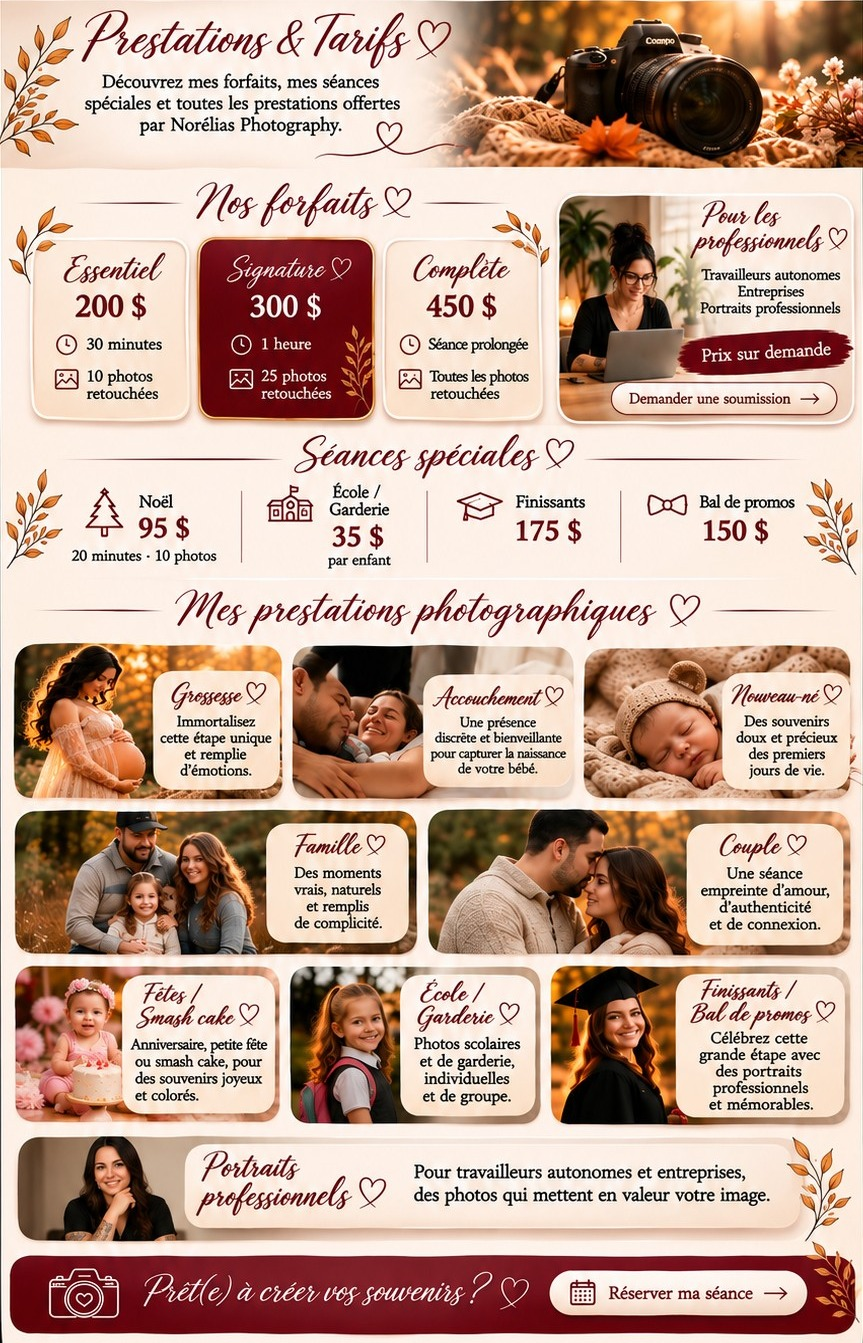
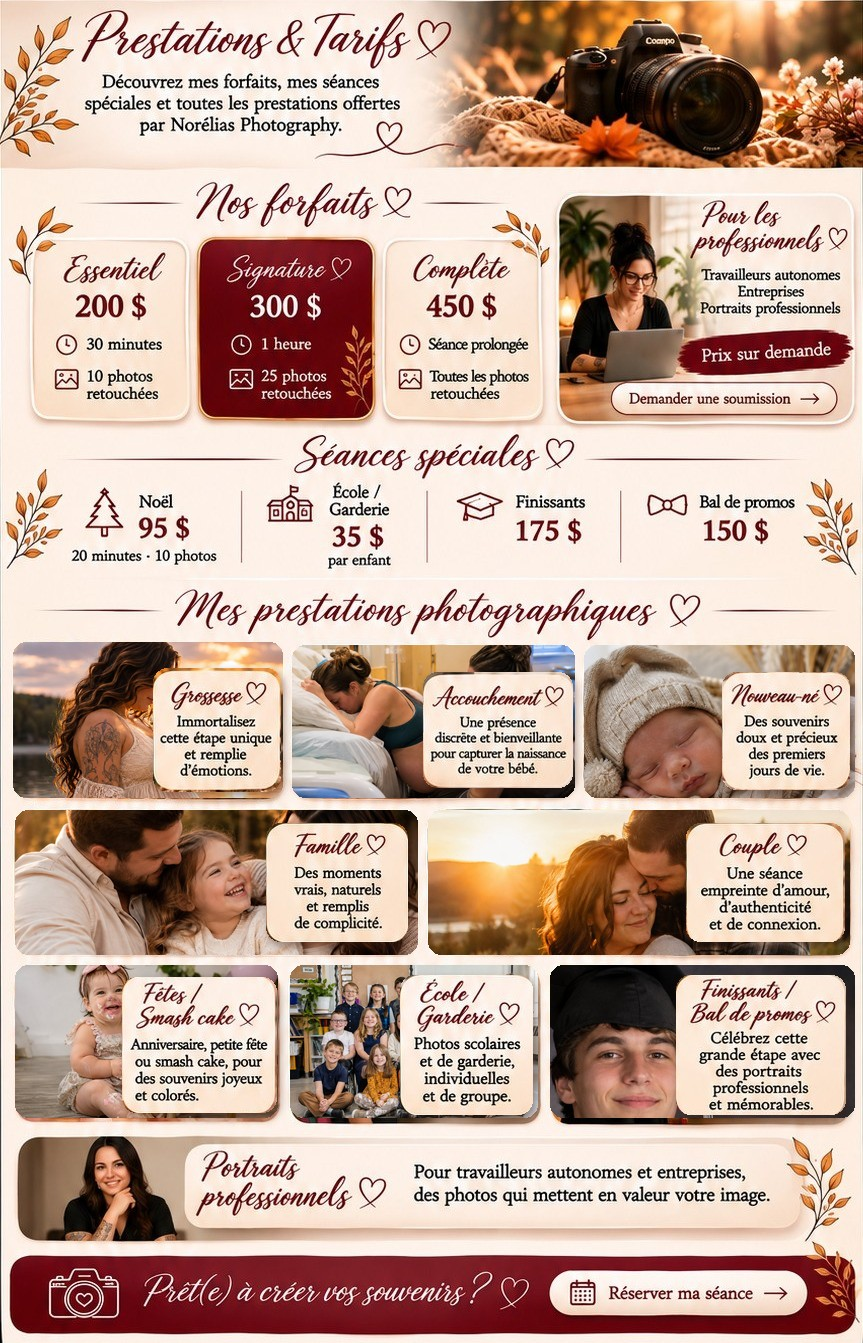
Photos réelles sur Prestations cellulaire, Black Friday -30 % (bandeau + calcul), prix garderie
Claude-Session: https://claude.ai/code/session_01Rh5XKVHsHEJX8tgAbBS3Nk

Changed region(s): [[0.0, 0.4579, 0.9942, 0.8548], [0.5122, 0.8243, 0.5724, 0.8548]]

diff --git a/index.html b/index.html
@@ -53,4 +53,5 @@
 <div class="lightbox" role="dialog" aria-modal="true" aria-label="Photo du portfolio" aria-hidden="true"><button type="button" class="lightbox-close" aria-label="Fermer">×</button><button type="button" class="lightbox-prev" aria-label="Photo précédente">‹</button><img class="lightbox-image" src="images/portfolio-grossesse.jpg" alt=""><button type="button" class="lightbox-next" aria-label="Photo suivante">›</button></div>
 <script>window.NORELIAS_GALLERY=[{"src": "images/portfolio-noel-couple-2.jpg", "alt": "Couple élégant devant le sapin de Noël"}, {"src": "images/portfolio-couple.jpg", "alt": "Couple enlacé au coucher du soleil"}, {"src": "images/portfolio-grossesse.jpg", "alt": "Femme enceinte au bord du lac au coucher du soleil"}, {"src": "images/portfolio-noel-enfants.jpg", "alt": "Enfants qui rient en ouvrant leurs cadeaux de Noël"}, {"src": "images/portfolio-nouveau-ne.jpg", "alt": "Nouveau-né endormi dans un panier avec un bonnet"}, {"src": "images/portfolio-noel-famille.jpg", "alt": "Famille de cinq souriante devant le sapin"}, {"src": "images/portfolio-famille-2.jpg", "alt": "Parents et leur fille qui rit à l'heure dorée"}, {"src": "images/portfolio-gateau.jpg", "alt": "Bébé qui rit pendant sa séance gâteau"}, {"src": "images/portfolio-noel-fille.jpg", "alt": "Petite fille en robe de velours rouge devant le sapin"}, {"src": "images/portfolio-automne.jpg", "alt": "Famille de six en séance d'automne"}, {"src": "images/portfolio-noel-couple.jpg", "alt": "Couple complice près du foyer et du sapin"}, {"src": "images/portfolio-gateau-2.jpg", "alt": "Bébé et son gâteau d'un an"}, {"src": "images/portfolio-noel-famille-2.jpg", "alt": "Famille qui rit aux éclats dans un décor de Noël"}, {"src": "images/portfolio-rencontre-prenatale.jpg", "alt": "Rencontre prénatale avec un couple qui attend bébé"}, {"src": "images/portfolio-famille.jpg", "alt": "Famille de quatre qui rit dans le parc"}, {"src": "images/portfolio-fete.jpg", "alt": "Fête d'anniversaire entre amis"}, {"src": "images/portfolio-couple-2.jpg", "alt": "Couple complice front contre front"}, {"src": "images/portfolio-classe-2.jpg", "alt": "Photo de classe souriante devant le tableau"}, {"src": "images/portfolio-accouchement.jpg", "alt": "Doula qui soutient une maman pendant le travail"}, {"src": "images/portfolio-ecole-fond-gris.jpg", "alt": "Portrait scolaire sur fond gris"}, {"src": "images/portfolio-anniversaire.jpg", "alt": "Fête d'anniversaire de 4 ans en famille"}, {"src": "images/portfolio-scolaire-classe.jpg", "alt": "Photo de classe souriante"}, {"src": "images/portfolio-fete-2.jpg", "alt": "Anniversaire avec ballons dorés"}, {"src": "images/portfolio-finissant-toge.jpg", "alt": "Finissant en toge avec son diplôme"}, {"src": "images/portfolio-ecole-fond-bleu.jpg", "alt": "Portrait scolaire sur fond bleu"}, {"src": "images/portfolio-portrait-bureau.jpg", "alt": "Portrait professionnel au bureau"}, {"src": "images/portfolio-portrait-studio.jpg", "alt": "Portrait professionnel dans un studio chaleureux"}, {"src": "images/portfolio-portrait-fauteuil.jpg", "alt": "Portrait professionnel dans un fauteuil en osier"}, {"src": "images/portfolio-finissants-bal.jpg", "alt": "Groupe de finissants au bal"}, {"src": "images/portfolio-noel-famille-3.jpg", "alt": "Famille de cinq en chandails de Noël"}, {"src": "images/portfolio-finissante-diplome.jpg", "alt": "Finissante en robe de bal avec son diplôme"}, {"src": "images/portfolio-nouveau-ne-ourson.jpg", "alt": "Nouveau-né endormi avec un bonnet et un toutou ourson"}, {"src": "images/portfolio-portrait-educatrice.jpg", "alt": "Portrait professionnel d’une éducatrice avec des enfants"}, {"src": "images/portfolio-papa-bebe.jpg", "alt": "Papa qui berce son nouveau-né"}];</script><script src="accueil-reproduction.js?v=20261124d"></script>
 <script src="/stats.js" defer></script>
+<script src="/promo.js?v=1" defer></script>
 </body></html>

diff --git a/prestations/index.html b/prestations/index.html
@@ -48,7 +48,7 @@
   <a href="../reservation/" class="btn btn-nav"><svg viewBox="0 0 32 32" fill="none" stroke="currentColor" stroke-width="1.8" stroke-linecap="round" stroke-linejoin="round" aria-hidden="true"><rect x="4" y="8" width="24" height="22" rx="3"/><path d="M4 14h24M10 3v9M22 3v9M10 20h3M17 20h3"/></svg><span>Réserver une séance</span></a>
   <a class="panier-lien" href="../panier/" aria-label="Mon panier"><svg viewBox="0 0 24 24" fill="none" stroke="currentColor" stroke-width="1.7" stroke-linecap="round" stroke-linejoin="round"><path d="M3 4h2l2.4 11h10.2L20 8H6.5"/><circle cx="9" cy="19" r="1.4"/><circle cx="17" cy="19" r="1.4"/></svg><span class="panier-n" hidden>0</span></a>
  </header>
- <div class="mob-img"><img src="../images/prestations-cellulaire-corps.jpg" alt="Prestations et tarifs Norélias Photography : forfaits Essentiel 200 $, Signature 300 $, Complète 450 $, séances spéciales Noël 95 $, école et garderie 35 $ par enfant, finissants 175 $, bal de promos 150 $, grossesse, accouchement, nouveau-né, famille, couple, fêtes, portraits professionnels">
+ <div class="mob-img"><img src="../images/prestations-cellulaire-corps.jpg?v=2" alt="Prestations et tarifs Norélias Photography : forfaits Essentiel 200 $, Signature 300 $, Complète 450 $, séances spéciales Noël 95 $, école et garderie 35 $ par enfant, finissants 175 $, bal de promos 150 $, grossesse, accouchement, nouveau-né, famille, couple, fêtes, portraits professionnels">
   <div class="mob-ecole"><b>300 $</b><span>par séance</span></div>
   <div class="mob-pro" aria-hidden="false"><div class="mp-ph" role="img" aria-label="Sabrina à son bureau"></div><div class="mp-t"><span class="mp-ti">Pour les professionnels <i>&#9825;</i></span><span class="mp-l">Travailleurs autonomes<br>Entreprises<br>Portraits professionnels</span><span class="mp-prix">Prix sur demande</span></div><span class="mp-bt">Demander une soumission <b>&rarr;</b></span></div>
   <a class="mob-h" href="mailto:bonjour@norelias.ca?subject=Demande%20de%20soumission" aria-label="Demander une soumission" style="left:70.22%;top:28.37%;width:27.11%;height:2.76%"></a>
@@ -124,5 +124,6 @@
 </div>
 <script>(function(){var b=document.querySelector('.burger'),n=document.querySelector('.mainnav');if(!b||!n)return;b.addEventListener('click',function(){var o=b.getAttribute('aria-expanded')==='true';b.setAttribute('aria-expanded',String(!o));n.classList.toggle('open',!o)});n.addEventListener('click',function(e){if(e.target.closest('a')){n.classList.remove('open');b.setAttribute('aria-expanded','false')}})})();</script>
 <script src="/stats.js" defer></script>
+<script src="/promo.js?v=1" defer></script>
 </body>
 </html>

diff --git a/script.js b/script.js
@@ -374,16 +374,27 @@
   function majCalcul() {
     var zone = document.getElementById('calcul-prix'); if (!zone) return;
     var cle = form.elements.forfait.value;
-    if ((cle !== 'ecole' && cle !== 'bal') || !form.elements.personnes.value) { zone.hidden = true; return; }
+    if (!cle || (!promoActive() && ((cle !== 'ecole' && cle !== 'bal') || !form.elements.personnes.value))) { zone.hidden = true; return; }
+    if (cle === 'bal' && !form.elements.personnes.value) { zone.hidden = true; return; }
     var m = montants(cle);
     zone.hidden = false;
     zone.textContent = 'Total : ' + argent(m.total) + (m.detail ? ' (' + m.detail + ')' : '') + ' · Acompte : ' + argent(m.acompte);
   }
   form.elements.personnes.addEventListener('input', majCalcul);
+  form.elements.forfait.addEventListener('change', majCalcul);
 
   function argent(n) { return n.toLocaleString('fr-CA', { minimumFractionDigits: n % 1 ? 2 : 0, maximumFractionDigits: 2 }) + ' $'; }
   // Total et acompte réels (garderie / école : prix fixe de 300 $ par séance)
+  // Black Friday : 30 % de rabais sur toutes les séances du 24 au 30 novembre 2026 (heure de l'Atlantique)
+  function promoActive() { var t = Date.now(); return t >= Date.UTC(2026, 10, 24, 4, 0, 0) && t <= Date.UTC(2026, 11, 1, 3, 59, 59); }
   function montants(cle) {
+    var b = montantsBase(cle);
+    if (!b || !promoActive() || b.total == null) return b;
+    var total = Math.round(b.total * 70) / 100;
+    var ac = cle === 'noel' ? total : Math.round(total * 50) / 100;
+    return { total: total, acompte: ac, detail: 'Black Friday −30 % : prix régulier ' + argent(b.total), promo: true };
+  }
+  function montantsBase(cle) {
     var f = FORFAITS[cle];
     if (!f) return null;
     if (f.parEnfant) {

diff --git a/promo.js b/promo.js
@@ -1,0 +1,17 @@
+/* Bandeau Black Friday : −30 % sur toutes les séances, du 24 au 30 novembre 2026 (heure de l'Atlantique). */
+(function () {
+  var t = Date.now();
+  if (t < Date.UTC(2026, 10, 24, 4, 0, 0) || t > Date.UTC(2026, 11, 1, 3, 59, 59)) return;
+  if (/\/(stats|confirmer|paiement|merci)\//.test(location.pathname)) return;
+  var racine = (document.currentScript && document.currentScript.src) ? document.currentScript.src.replace(/promo\.js.*$/, '') : '/';
+  var st = document.createElement('style');
+  st.textContent = '.bf-bandeau{display:flex;justify-content:center;align-items:center;gap:10px;flex-wrap:wrap;background:linear-gradient(180deg,#7a2433,#5c1823);color:#fff;font:600 14px/1.3 Georgia,"Times New Roman",serif;text-align:center;padding:9px 12px;position:relative;z-index:50}' +
+    '.bf-bandeau b{color:#f6d9c8}.bf-bandeau a{color:#5c1823;background:#f6d9c8;border-radius:99px;padding:4px 12px;text-decoration:none;font-size:13px;white-space:nowrap}' +
+    '@media(max-width:480px){.bf-bandeau{font-size:12.5px;padding:7px 8px;gap:6px}}';
+  document.head.appendChild(st);
+  var d = document.createElement('div');
+  d.className = 'bf-bandeau';
+  d.setAttribute('role', 'note');
+  d.innerHTML = '<span><b>Black Friday</b> · −30 % sur toutes les séances jusqu\'au 30 novembre</span><a href="' + racine + 'reservation/">Réserver</a>';
+  document.body.insertBefore(d, document.body.firstChild);
+})();

diff --git a/reservation/index.html b/reservation/index.html
@@ -123,5 +123,6 @@
 <script src="../script.js?v=20261124q"></script>
 <script>(function(){var b=document.querySelector('.burger'),n=document.querySelector('.mainnav');if(!b||!n)return;b.addEventListener('click',function(){var o=b.getAttribute('aria-expanded')==='true';b.setAttribute('aria-expanded',String(!o));n.classList.toggle('open',!o)});n.addEventListener('click',function(e){if(e.target.closest('a')){n.classList.remove('open');b.setAttribute('aria-expanded','false')}})})();</script>
 <script src="/stats.js" defer></script>
+<script src="/promo.js?v=1" defer></script>
 </body>
 </html>

diff --git a/a-propos/index.html b/a-propos/index.html
@@ -60,5 +60,6 @@
 </div>
 <script>(function(){var b=document.querySelector('.burger'),n=document.querySelector('.mainnav');if(!b||!n)return;b.addEventListener('click',function(){var o=b.getAttribute('aria-expanded')==='true';b.setAttribute('aria-expanded',String(!o));n.classList.toggle('open',!o)});n.addEventListener('click',function(e){if(e.target.closest('a')){n.classList.remove('open');b.setAttribute('aria-expanded','false')}})})();</script>
 <script src="/stats.js" defer></script>
+<script src="/promo.js?v=1" defer></script>
 </body>
 </html>

diff --git a/boutique/index.html b/boutique/index.html
@@ -63,5 +63,6 @@
 </div>
 <script>(function(){var b=document.querySelector('.burger'),n=document.querySelector('.mainnav');if(!b||!n)return;b.addEventListener('click',function(){var o=b.getAttribute('aria-expanded')==='true';b.setAttribute('aria-expanded',String(!o));n.classList.toggle('open',!o)});n.addEventListener('click',function(e){if(e.target.closest('a')){n.classList.remove('open');b.setAttribute('aria-expanded','false')}})})();</script>
 <script src="/stats.js" defer></script>
+<script src="/promo.js?v=1" defer></script>
 </body>
 </html>

diff --git a/faq/index.html b/faq/index.html
@@ -72,5 +72,6 @@
 </div>
 <script>(function(){var b=document.querySelector('.burger'),n=document.querySelector('.mainnav');if(!b||!n)return;b.addEventListener('click',function(){var o=b.getAttribute('aria-expanded')==='true';b.setAttribute('aria-expanded',String(!o));n.classList.toggle('open',!o)});n.addEventListener('click',function(e){if(e.target.closest('a')){n.classList.remove('open');b.setAttribute('aria-expanded','false')}})})();</script>
 <script src="/stats.js" defer></script>
+<script src="/promo.js?v=1" defer></script>
 </body>
 </html>

diff --git a/boutique/isotherme/index.html b/boutique/isotherme/index.html
@@ -99,5 +99,6 @@
 <script src="../../config.js?v=1795487980"></script>
 <script src="../../script.js?v=20261124q"></script>
 <script src="/stats.js" defer></script>
+<script src="/promo.js?v=1" defer></script>
 </body>
 </html>

diff --git a/boutique/ornement/index.html b/boutique/ornement/index.html
@@ -99,5 +99,6 @@
 <script src="../../config.js?v=1795487980"></script>
 <script src="../../script.js?v=20261124q"></script>
 <script src="/stats.js" defer></script>
+<script src="/promo.js?v=1" defer></script>
 </body>
 </html>

diff --git a/boutique/portecles/index.html b/boutique/portecles/index.html
@@ -99,5 +99,6 @@
 <script src="../../config.js?v=1795487980"></script>
 <script src="../../script.js?v=20261124q"></script>
 <script src="/stats.js" defer></script>
+<script src="/promo.js?v=1" defer></script>
 </body>
 </html>

diff --git a/boutique/tasse/index.html b/boutique/tasse/index.html
@@ -99,5 +99,6 @@
 <script src="../../config.js?v=1795487980"></script>
 <script src="../../script.js?v=20261124q"></script>
 <script src="/stats.js" defer></script>
+<script src="/promo.js?v=1" defer></script>
 </body>
 </html>
